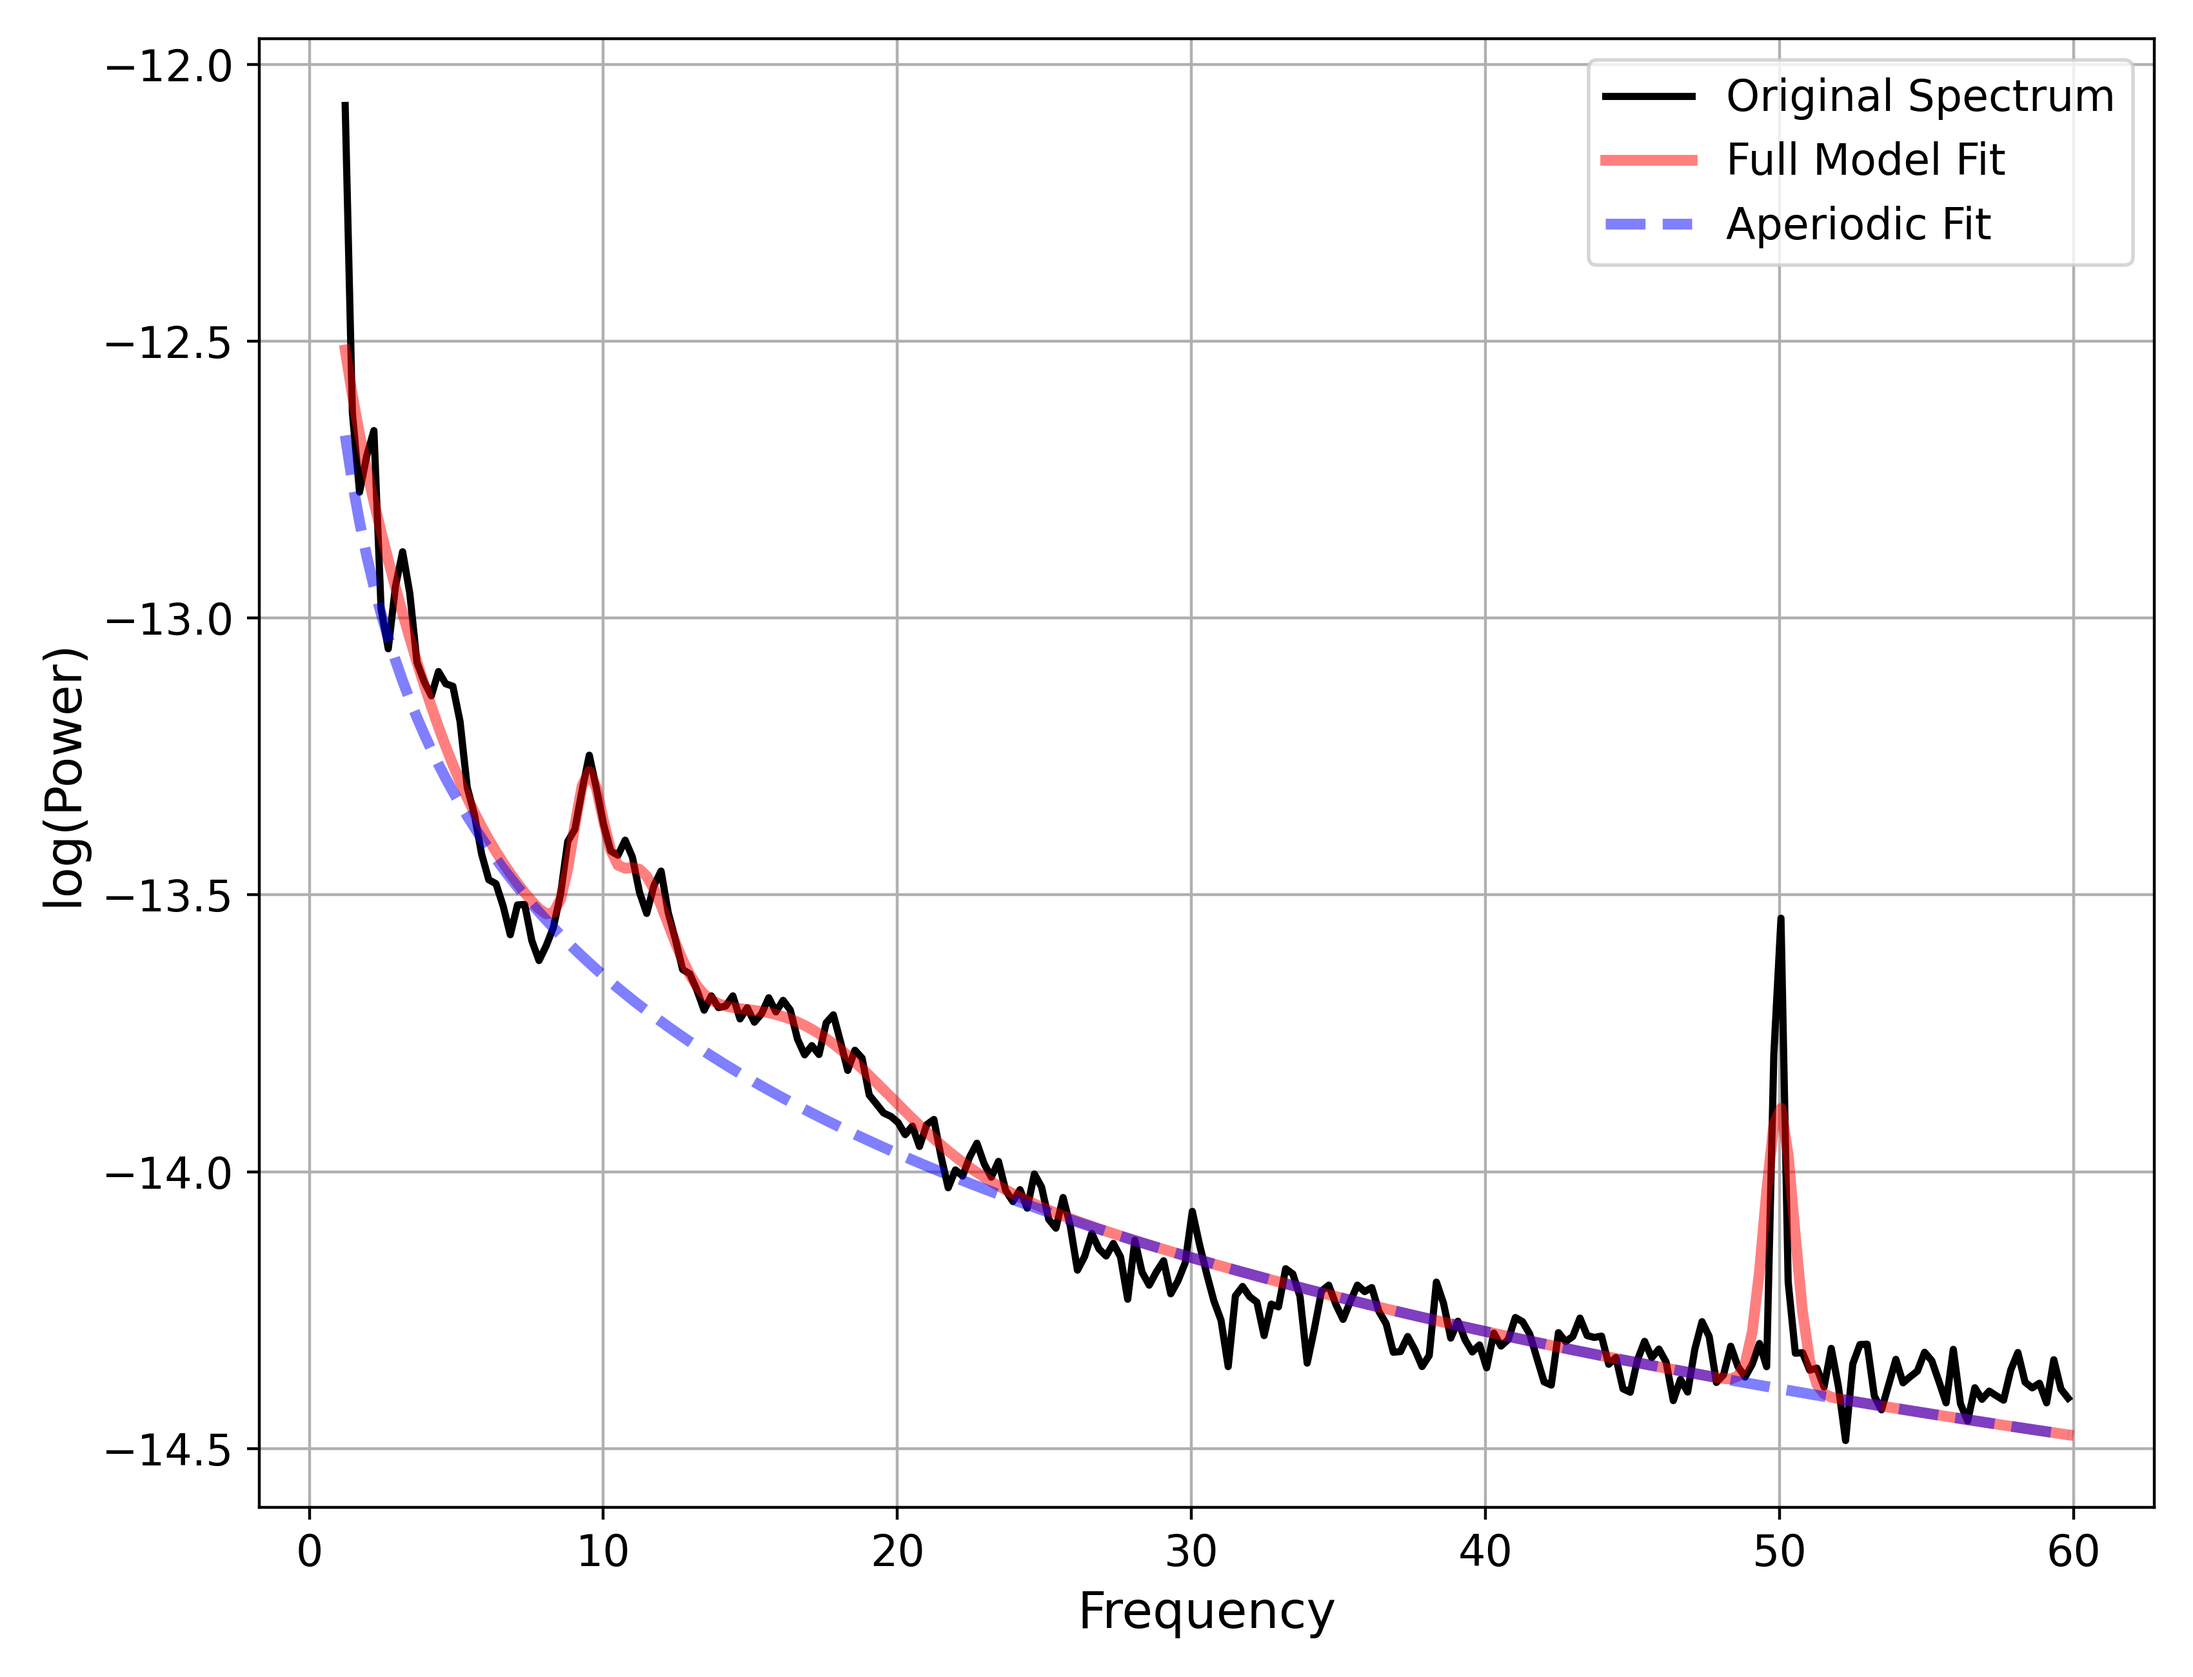
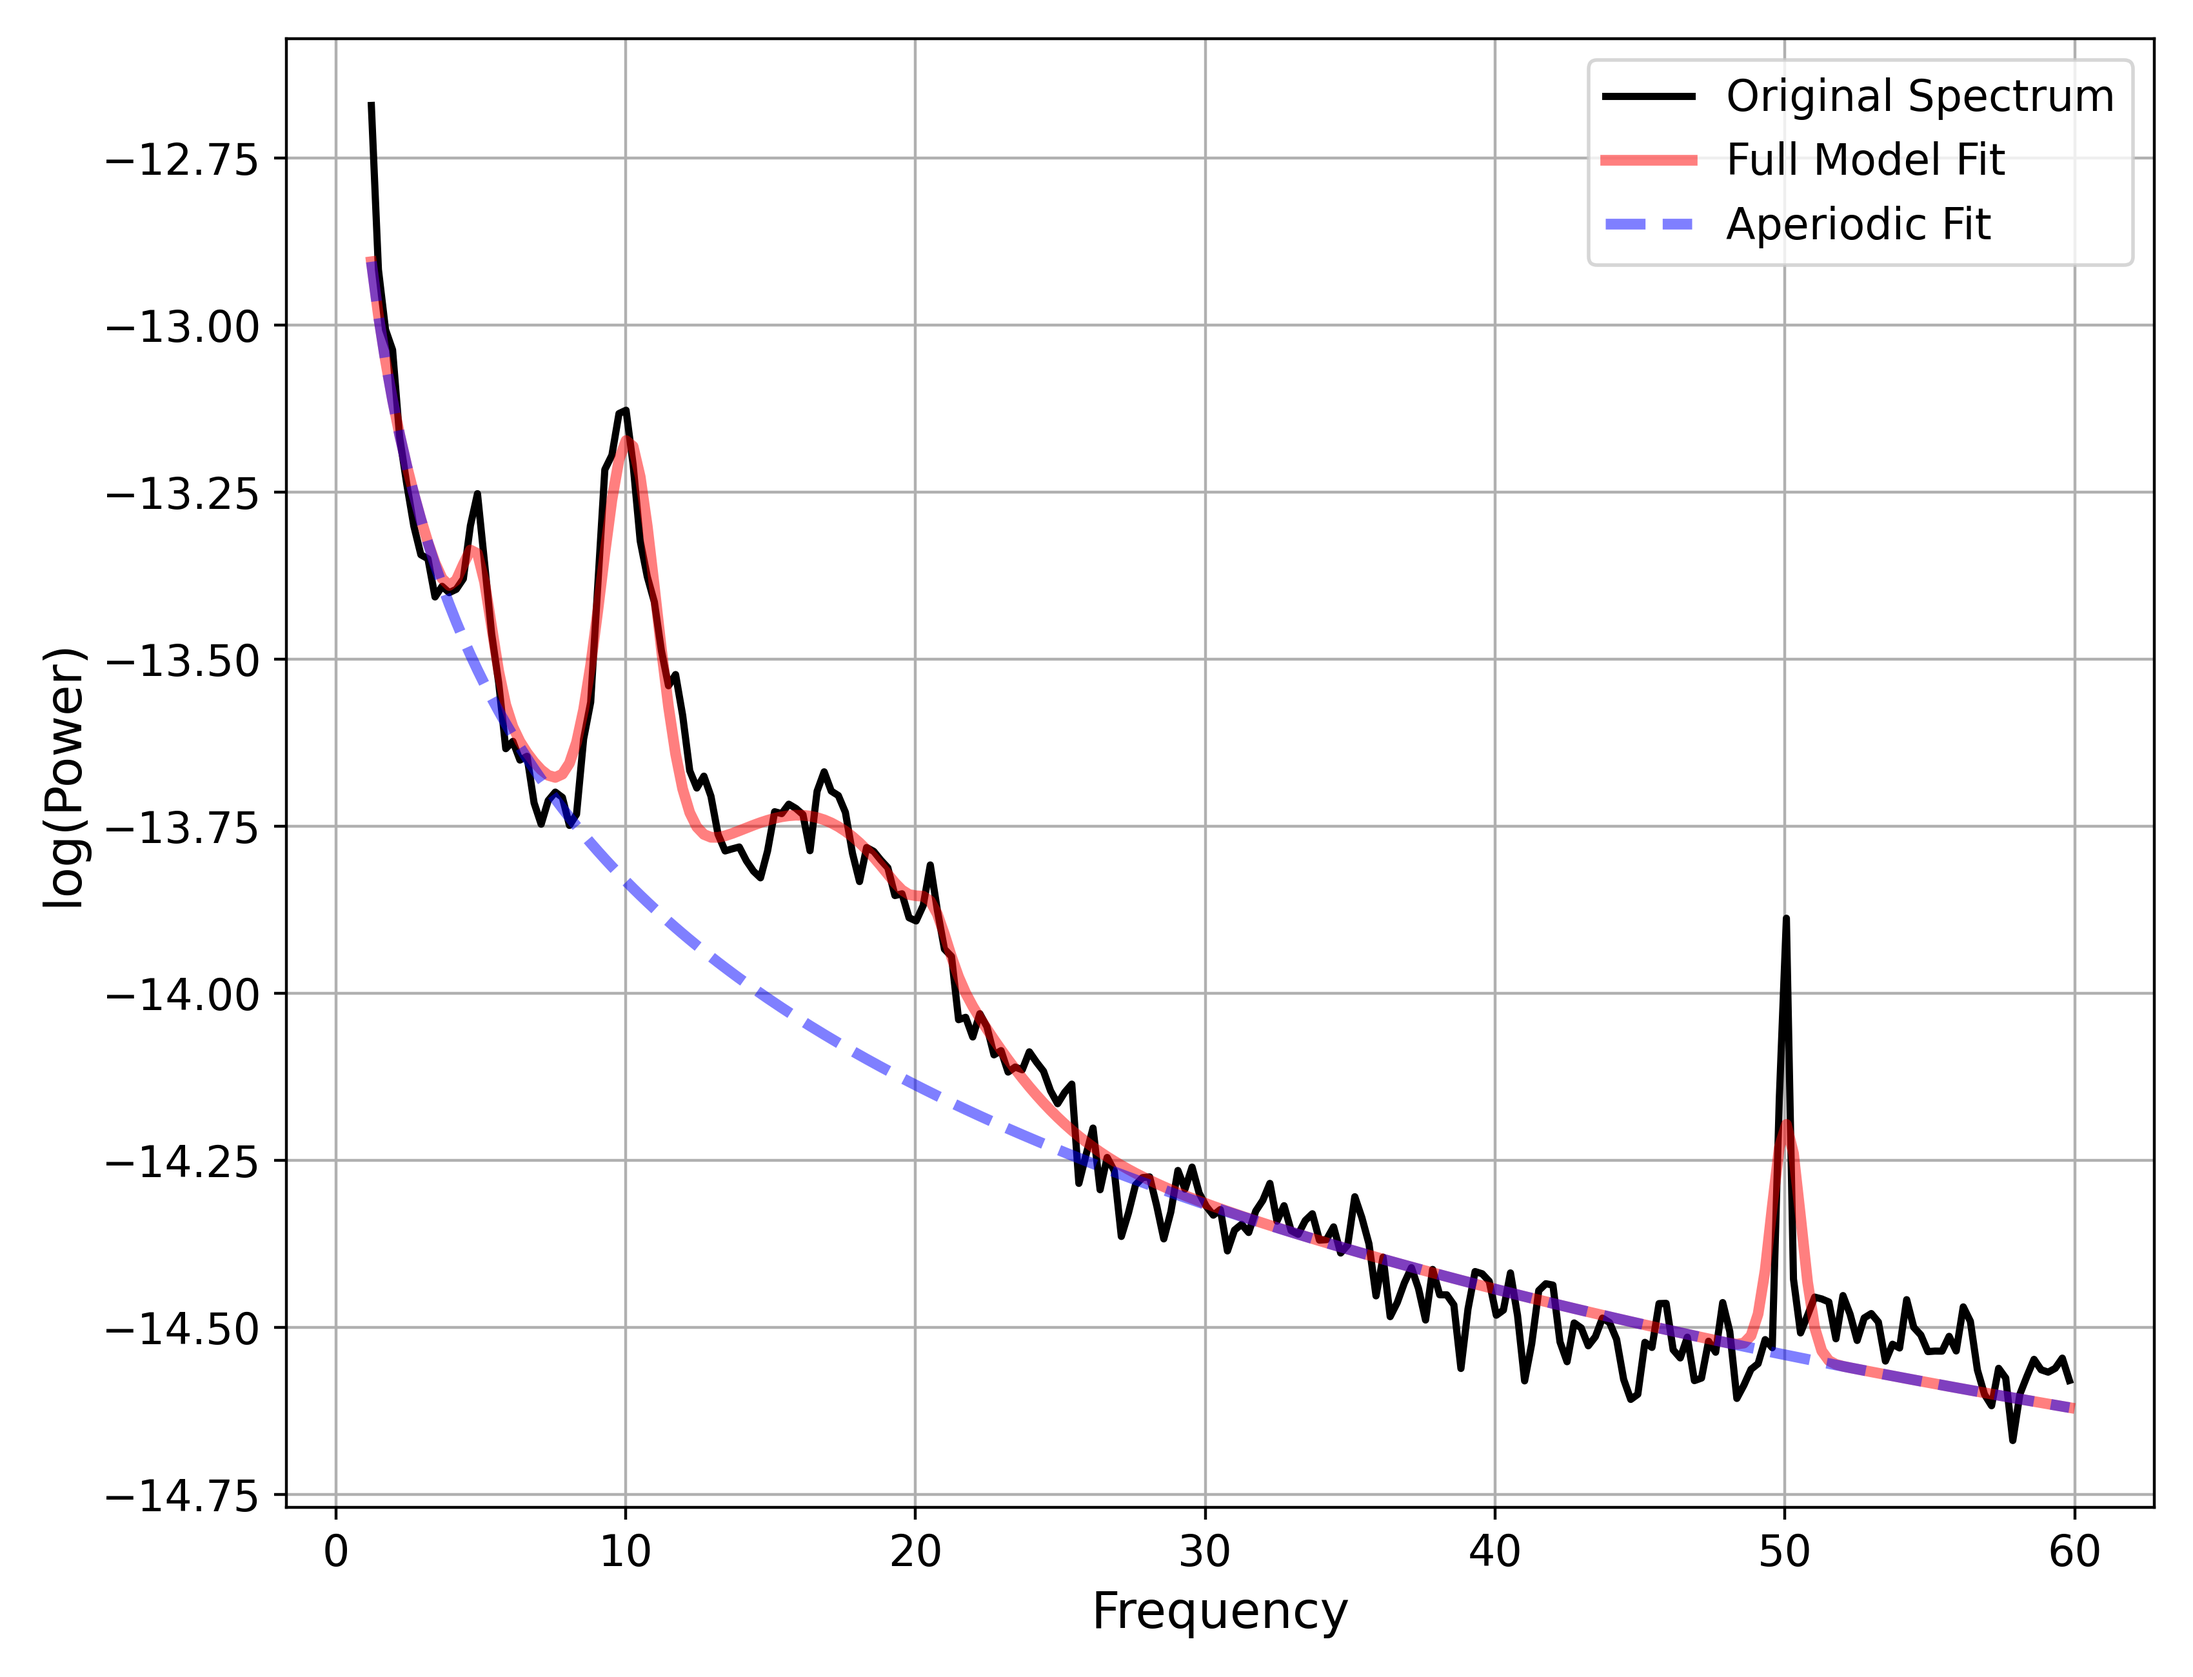
added snr estimation to filter creation script for screening

diff --git a/code/01_get_filt_coeffs.py b/code/01_get_filt_coeffs.py
@@ -36,7 +36,7 @@ subject_dir = data_save / sub_id
 rs_file = subject_dir / f"{sub_id}.set"
 coeffs_path = data_save / f"bpfilter_{sub_id}.mat"
 dec = 10
-print(f"root: {repo_root}")
+
 subject_dir.mkdir(parents=True, exist_ok=True)
 
 # save new paths into settings.json for use in MATLAB
@@ -111,10 +111,18 @@ periodic_params, aperiodic_params = parameterize_spectrum(
 
 # compute peak bands with +/-1 fixed bandwidth
 band_peaks = [param for param in periodic_params if param[0] < 12 and param[0] > 8]
-peak = sorted(band_peaks, key=lambda x: x[1], reverse=True)[0][
-    0
-]  # get preak freq with highest power
-lower, upper = peak - 1, peak + 1
+peak = sorted(band_peaks, key=lambda x: x[1], reverse=True)[0] # get the peak with the highest power
+peak_f = peak[0]
+lower, upper = peak_f - 1, peak_f + 1
+
+# get snr
+peak_snr = 10*peak[1]
+
+print(f"\nPeak frequency: {peak_f} Hz, SNR: {peak_snr:.2f} dB\n")
+
+# save snr
+with open(data_save / "sub_snr.csv", "a") as f:
+    f.write(f"{sub_id}, Session: {sess_id}, Peak frequency: {peak_f} Hz, SNR: {peak_snr:.2f} dB\n")
 
 # use for fitted width instead of fixed 1 Hz bandwidth
 # upper, lower = [x[0] for x in compute_peak_bands(periodic_params, [[8, 12, 0]])[:2]]
